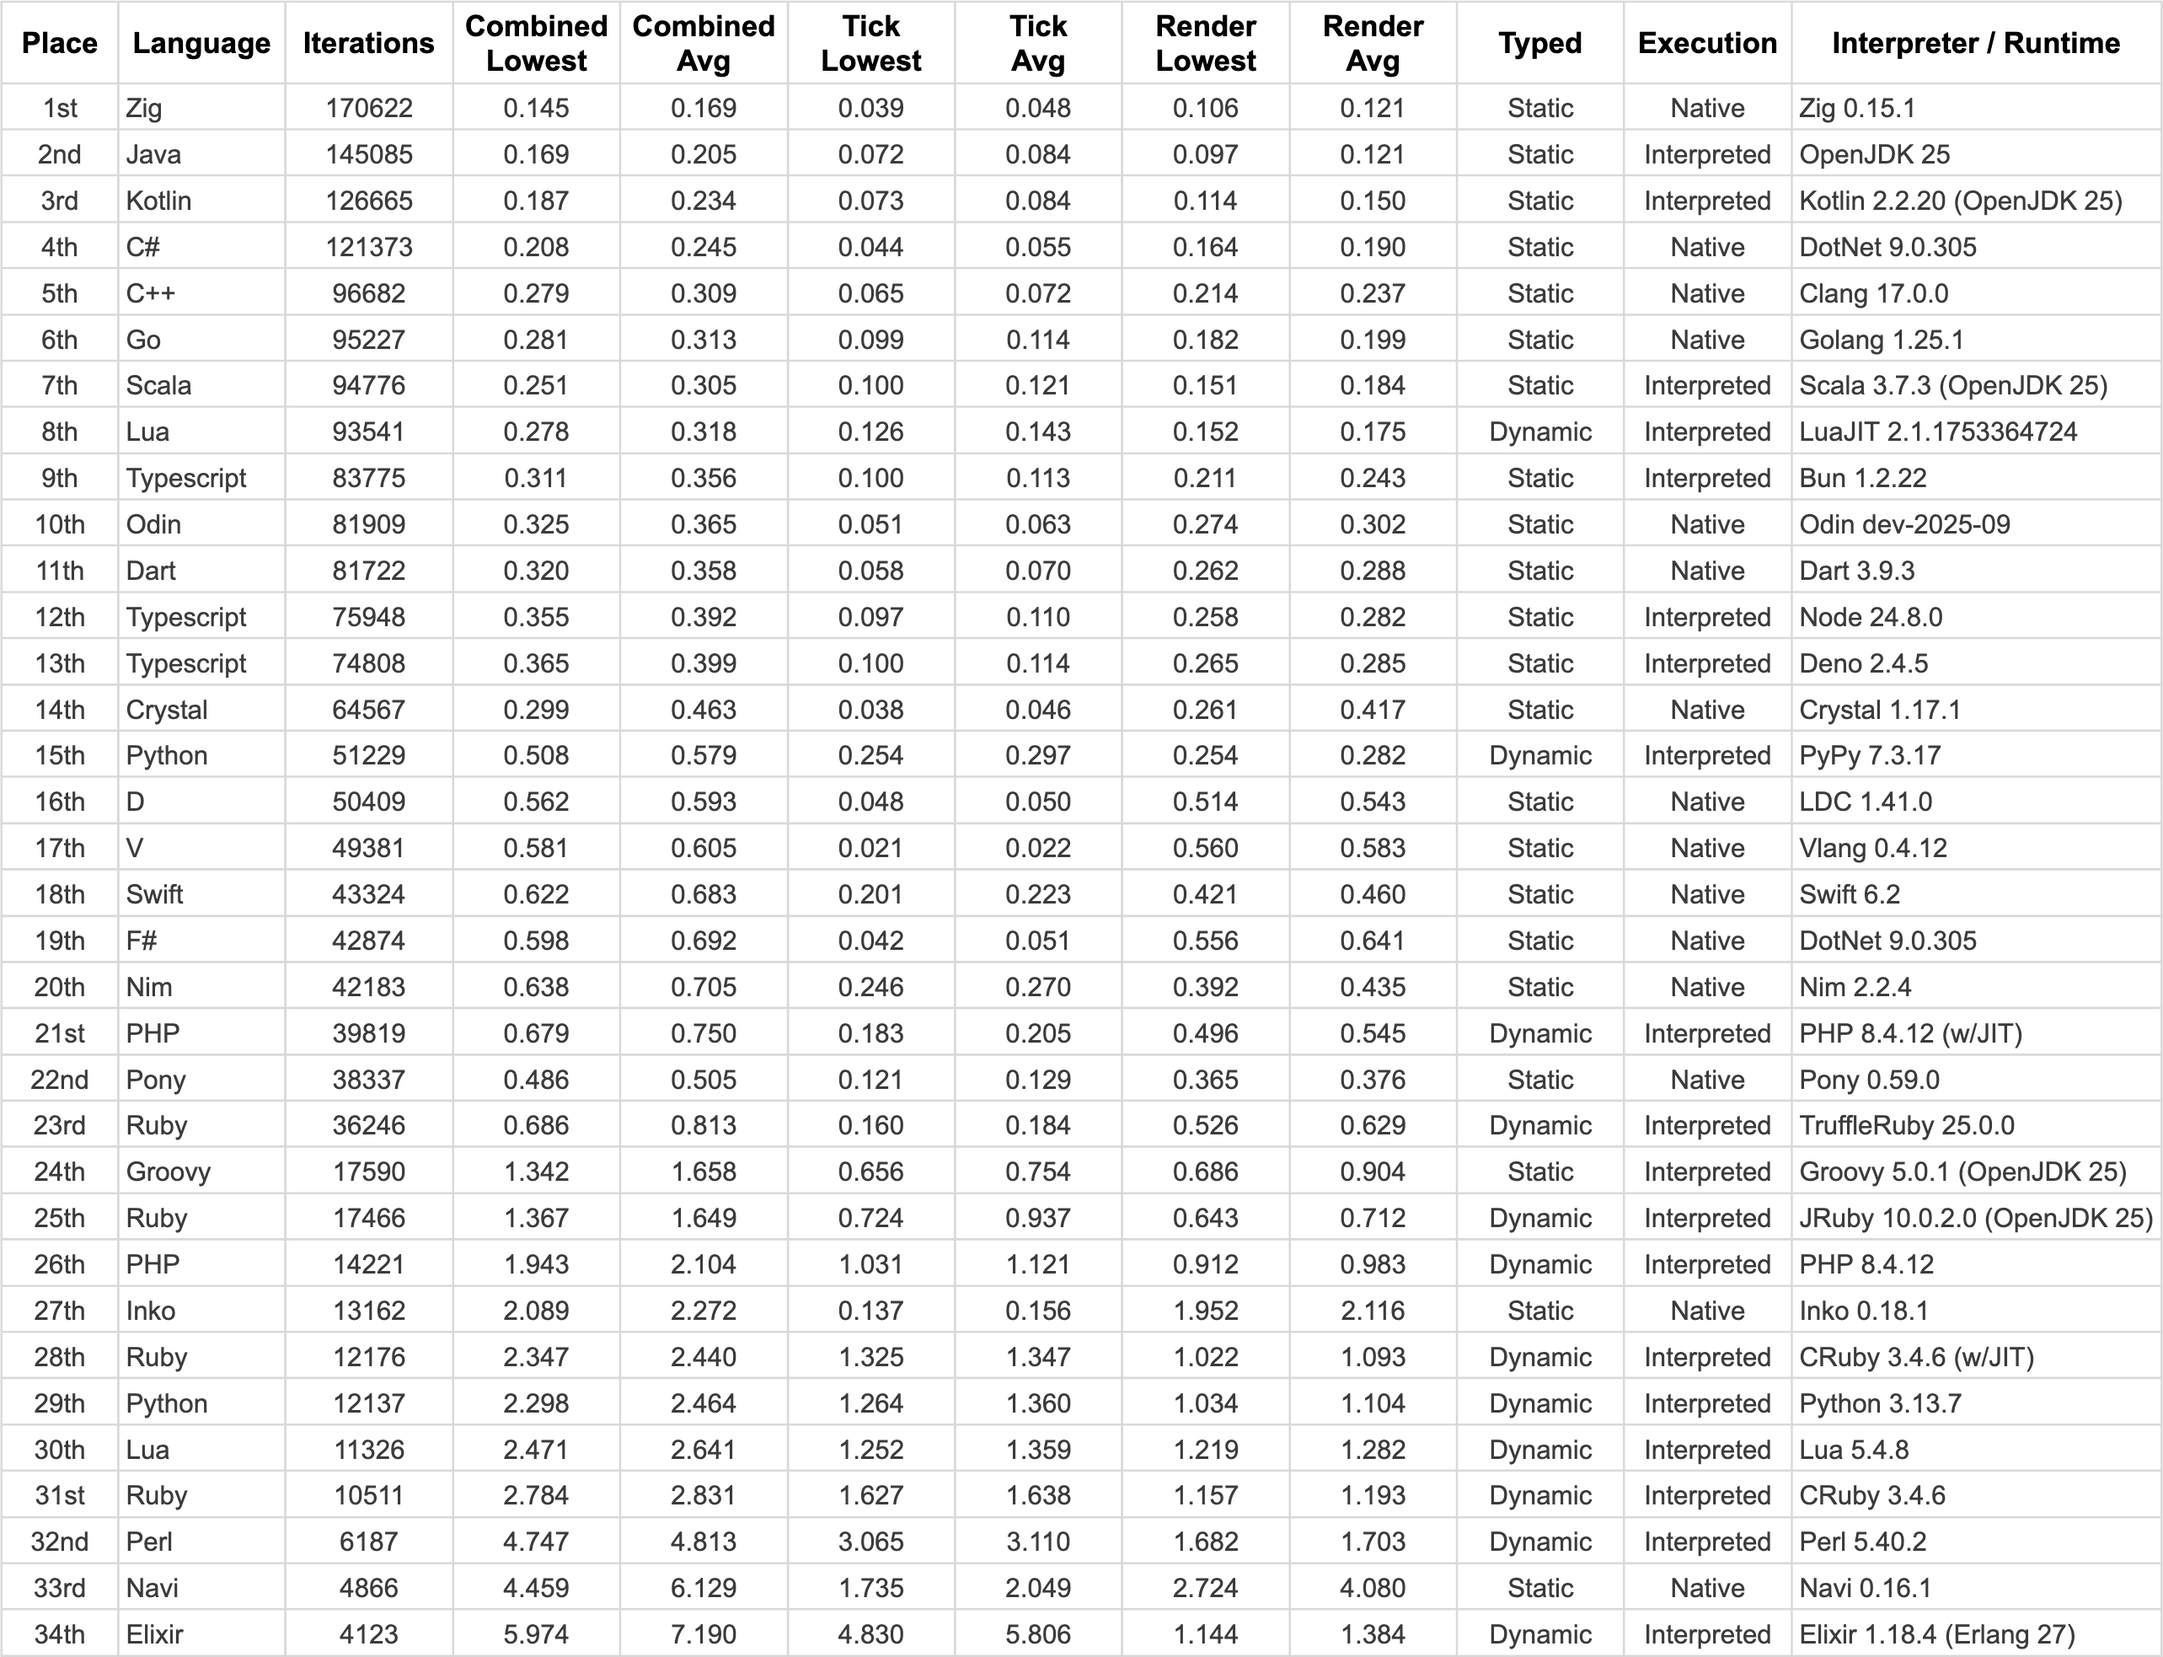
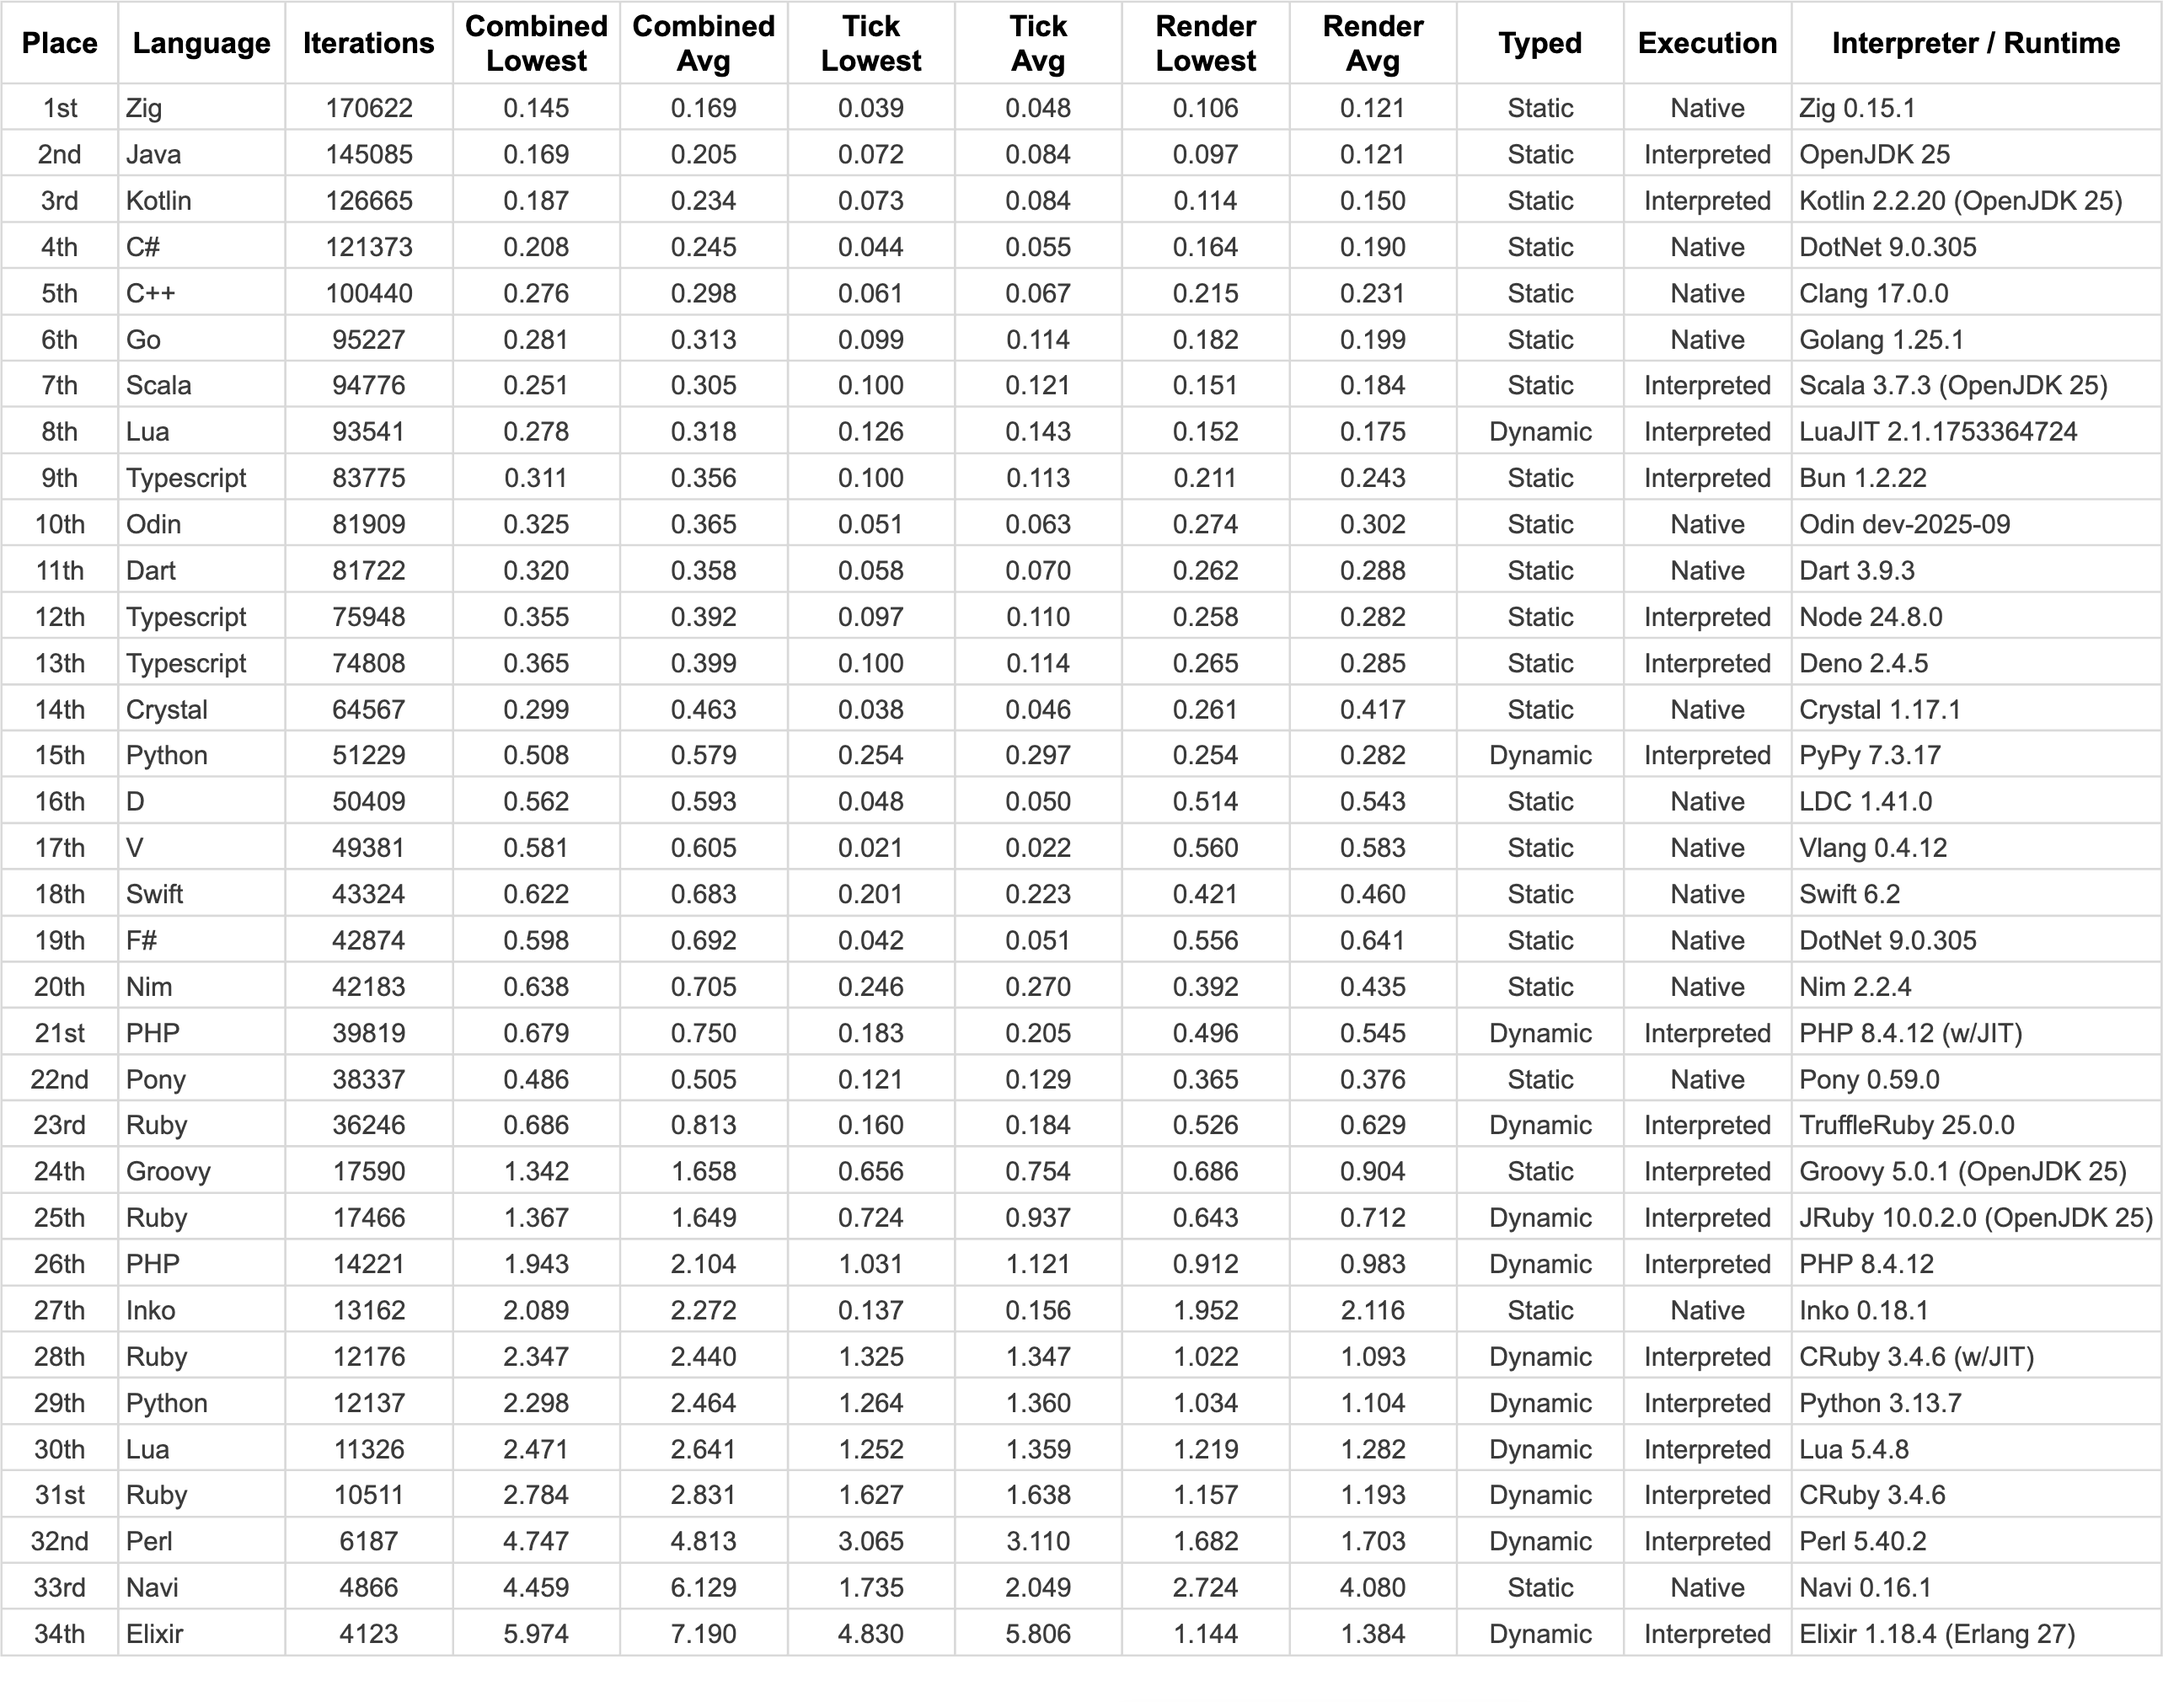
C++ Performance Improvements

Changed region(s): [[0.0, 0.0, 1.0, 1.0]]

diff --git a/c++/world.cpp b/c++/world.cpp
@@ -1,5 +1,5 @@
 #include <algorithm>
-#include <sstream>
+// #include <sstream>
 #include <unordered_map>
 #include <vector>
 
@@ -10,7 +10,7 @@ class Cell {
     int x, y;
     bool alive;
     bool next_state;
-    vector<Cell*>* neighbours = new vector<Cell*>();
+    vector<Cell*> neighbours;
 
     Cell(int x, int y, bool alive = false): x(x), y(y), alive(alive) { }
 
@@ -52,27 +52,28 @@ class World {
     // Implement first using string concatenation. Then implement any
     // special string builders, and use whatever runs the fastest
     string render() {
-      // The following works but it slower
-      // string rendering = "";
-      // for (auto y = 0; y < height; y++) {
-      //   for (auto x = 0; x < width; x++) {
-      //     auto cell = *cell_at(x, y);
-      //     rendering += cell->to_char();
-      //   }
-      //   rendering += "\n";
-      // }
-      // return rendering;
-
       // The following was the fastest method
-      stringstream rendering;
+      string rendering;
+      rendering.reserve(width * height + height);
       for (auto y = 0; y < height; y++) {
         for (auto x = 0; x < width; x++) {
           auto cell = cell_at(x, y);
-          rendering << cell->to_char();
+          rendering += cell->to_char();
         }
-        rendering << "\n";
+        rendering += '\n';
       }
-      return rendering.str();
+      return rendering;
+
+      // The following works but it slower
+      // stringstream rendering;
+      // for (auto y = 0; y < height; y++) {
+      //   for (auto x = 0; x < width; x++) {
+      //     auto cell = cell_at(x, y);
+      //     rendering << cell->to_char();
+      //   }
+      //   rendering << '\n';
+      // }
+      // return rendering.str();
     }
 
   private:
@@ -134,7 +135,7 @@ class World {
           );
 
           if (neighbour) {
-            cell->neighbours->push_back(neighbour);
+            cell->neighbours.push_back(neighbour);
           }
         }
       }
@@ -145,14 +146,14 @@ class World {
     int alive_neighbours_around(Cell* cell) {
       // The following was the fastest method
       return count_if(
-        begin(*cell->neighbours),
-        end(*cell->neighbours),
+        begin(cell->neighbours),
+        end(cell->neighbours),
         [](auto *neighbour) { return neighbour->alive; }
       );
 
       // The following is about the same time as the fastest
       // auto alive_neighbours = 0;
-      // for (auto& neighbour : *cell->neighbours) {
+      // for (auto& neighbour : cell->neighbours) {
       //   if (neighbour->alive) {
       //     alive_neighbours++;
       //   }
@@ -161,8 +162,8 @@ class World {
 
       // The following is about the same time as the fastest
       // auto alive_neighbours = 0;
-      // for (auto i = 0; i < (*cell->neighbours).size(); i++) {
-      //   auto neighbour = (*cell->neighbours)[i];
+      // for (auto i = 0; i < cell->neighbours.size(); i++) {
+      //   auto neighbour = cell->neighbours[i];
       //   if (neighbour->alive) {
       //     alive_neighbours++;
       //   }

diff --git a/c++/README.md b/c++/README.md
@@ -2,5 +2,5 @@
 
 ## Usage
 
-* `g++ -std=c++23 -O3 -o play play.cpp`
+* `g++ -std=c++23 -O3 -march=native -flto -o play play.cpp`
 * `./play`
